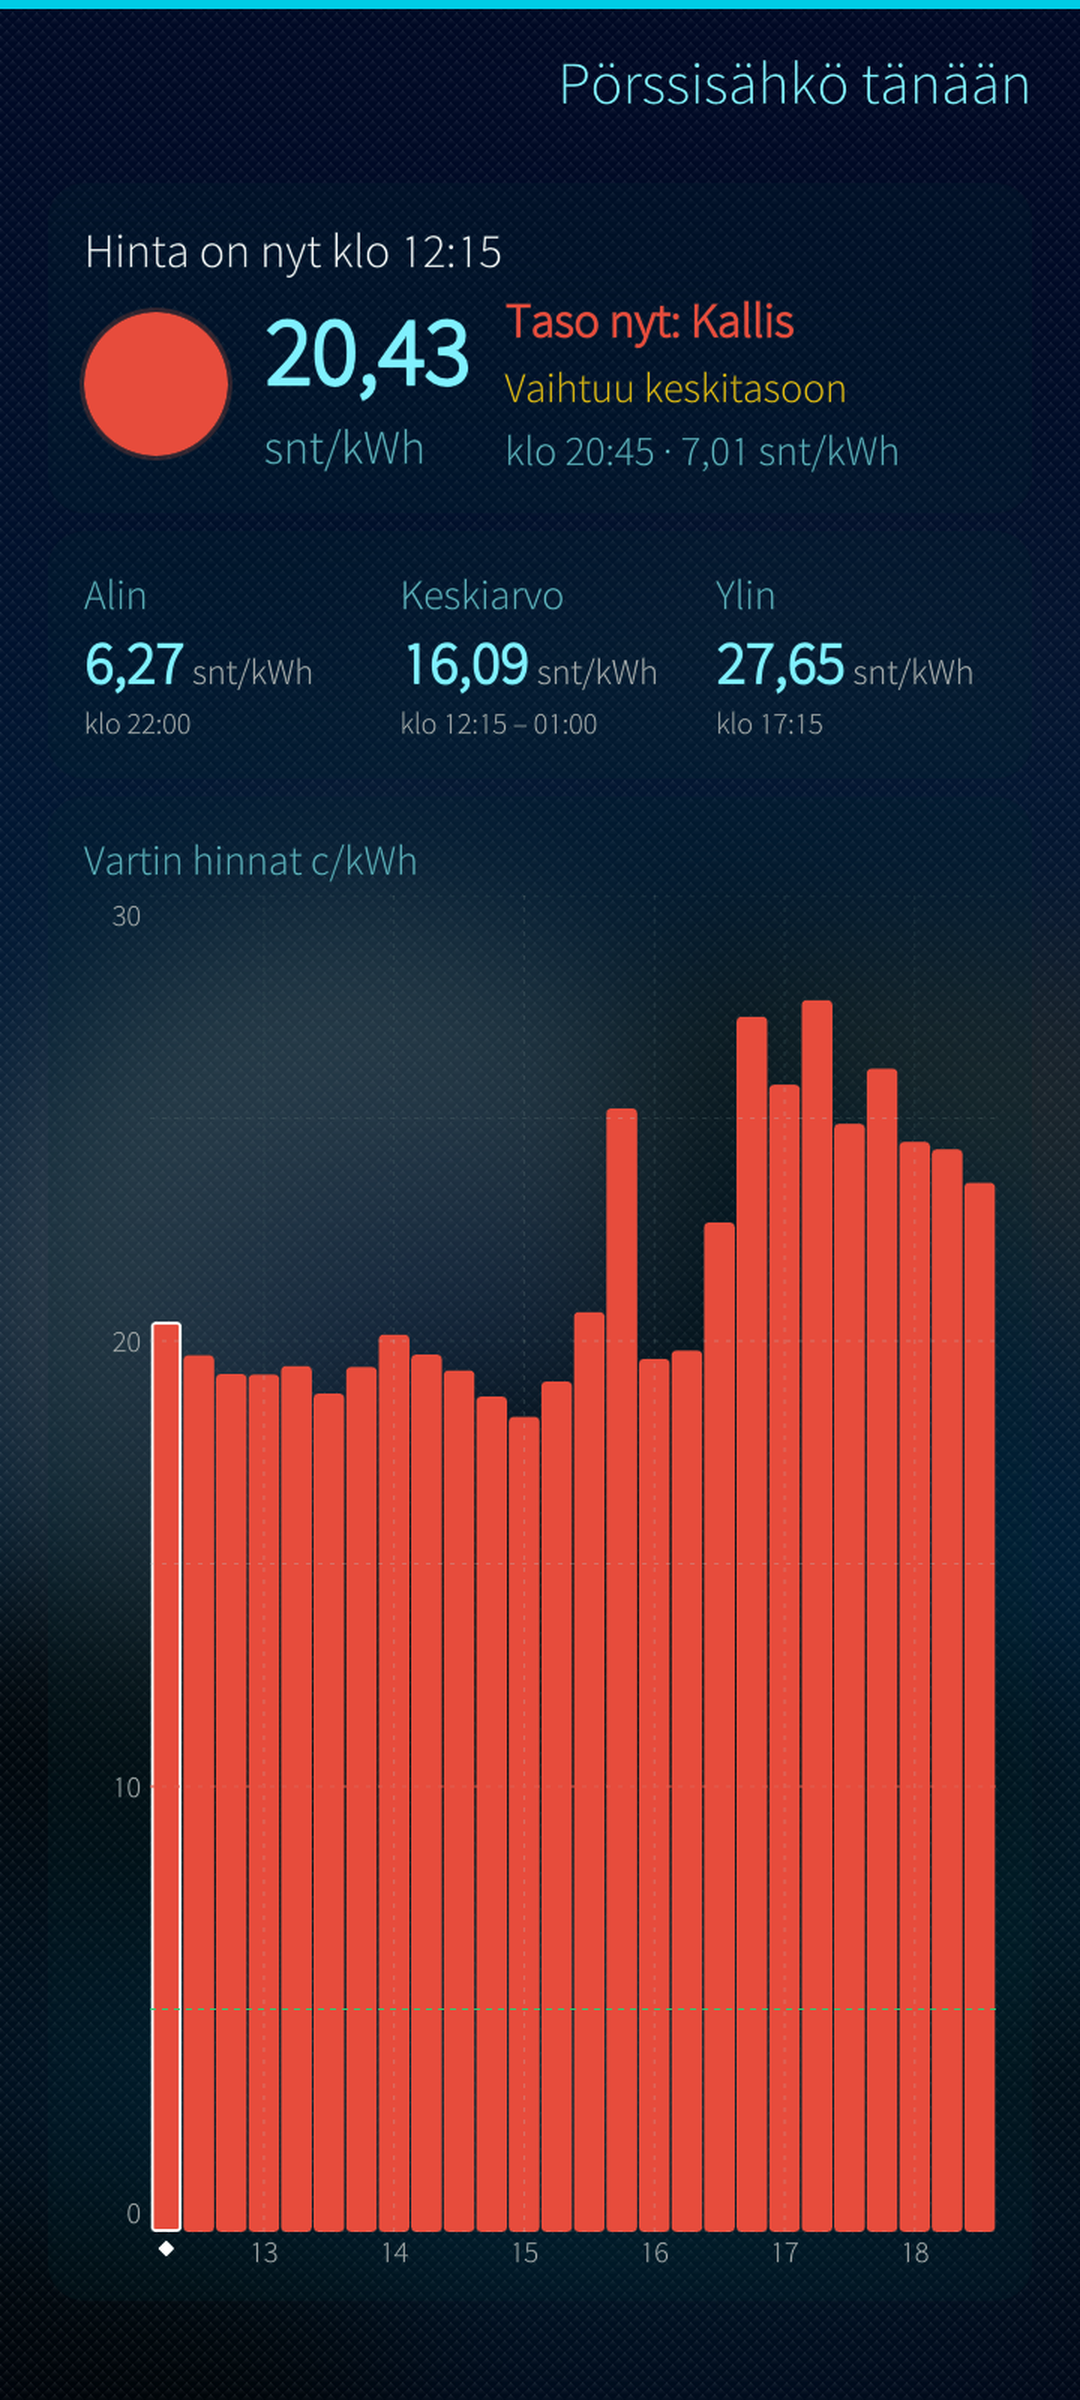
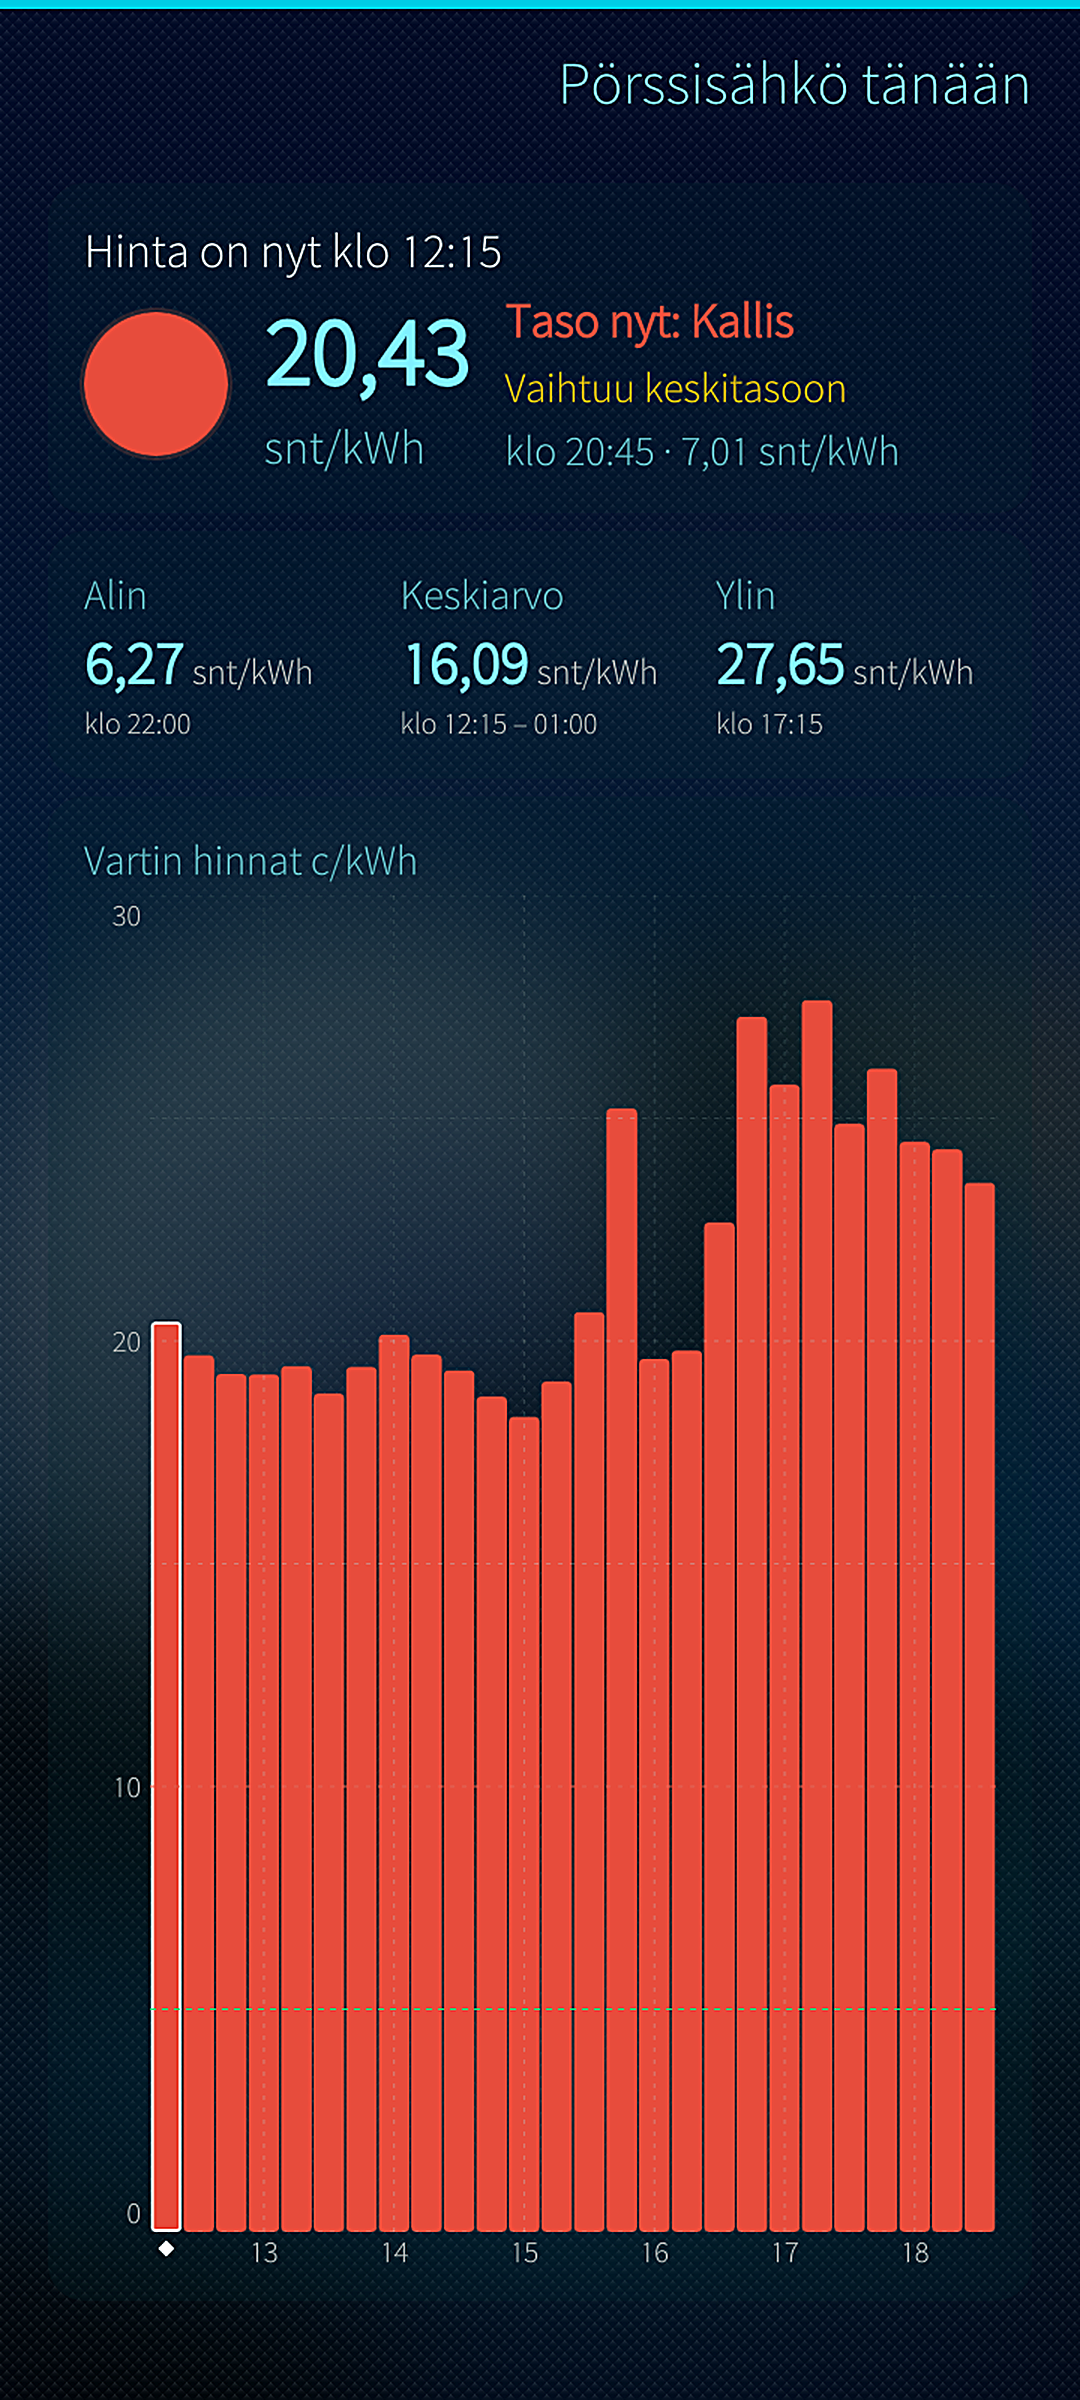
store: sharpened 1080x2400 screenshot and an optional cover image
The main page screenshot is now finished with a light unsharp mask
after the 1.5x Lanczos upscale, which measurably improves text
sharpness; adds the optional 1080x540 Harbour cover image made from
the same capture.

Generated by Mistral Vibe.

diff --git a/store/README.md b/store/README.md
@@ -10,7 +10,9 @@ Contents:
   Harbour submission form)
 - `screenshots/` - store screenshots at 1080x2400 (the Harbour form
   requires at least 1080 px width; the emulator's native 720x1600
-  capture is upscaled 1.5x with Lanczos - see the release checklist). Capture over SSH with the lipstick screenshot
+  capture is upscaled 1.5x with Lanczos and finished with a light
+  unsharp mask so text stays crisp). `cover-1080x540.png` is the
+  optional Harbour cover image. Capture over SSH with the lipstick screenshot
   API (needs root on the session bus; VirtualBox's own capture is
   only half resolution - do not use it for the store):
 
